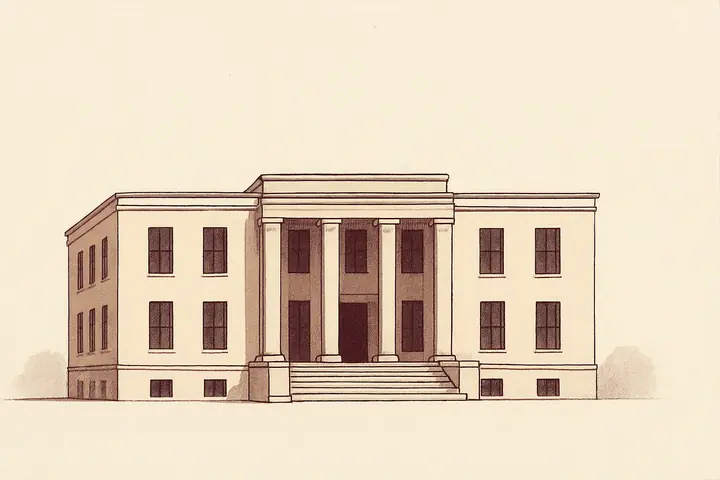
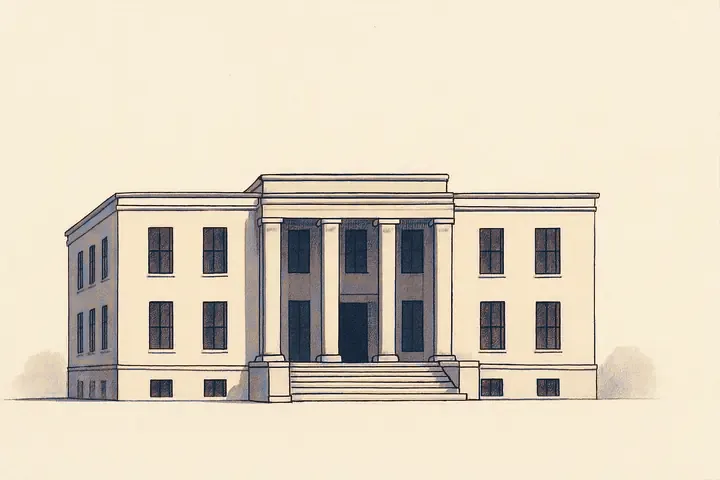
Module and court pictures in navy
The five module pictures and nine court pictures were drawn in burgundy.
Their burgundy ink is now the app's navy. The drawings, the warm paper
behind them and every other colour are unchanged: each pixel is moved
towards navy only as far as it was red.

Claude-Session: https://claude.ai/code/session_01BTVgdU5uE4hSfJBxJLq4BJ

diff --git a/lawgistics-academy/src/components/module-art.tsx b/lawgistics-academy/src/components/module-art.tsx
@@ -5,8 +5,10 @@ import { cn } from '@/components/ui';
  * A picture for each module.
  *
  * Five illustrations, one per kind, generated once with OpenAI's image model
- * in one house style (burgundy, warm paper and ink, no text, no faces, no
- * gavels) and saved as files in `public/modules/`. The app never calls
+ * in one house style (warm paper and ink, no text, no faces, no
+ * gavels) and saved as files in `public/modules/`. They were drawn in
+ * burgundy and recoloured to the app's navy afterwards, the drawing itself
+ * untouched; the court pictures in `public/courts/` were done the same way. The app never calls
  * OpenAI for them: they are ordinary static pictures. A module added in code
  * picks up whichever of the five its slug maps to.
  *
